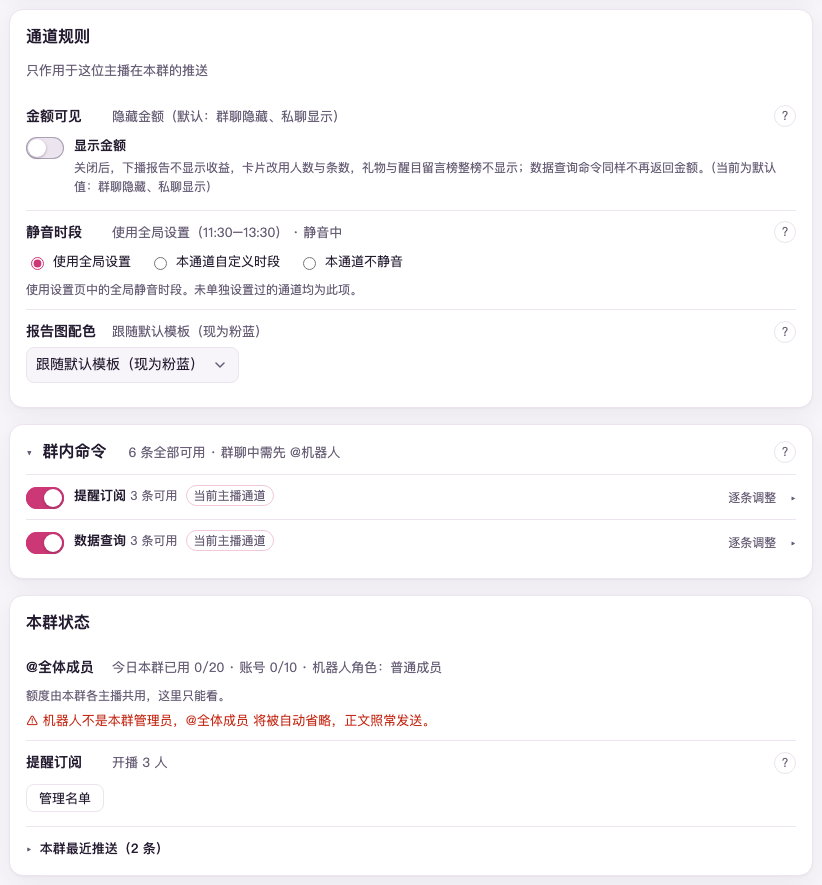
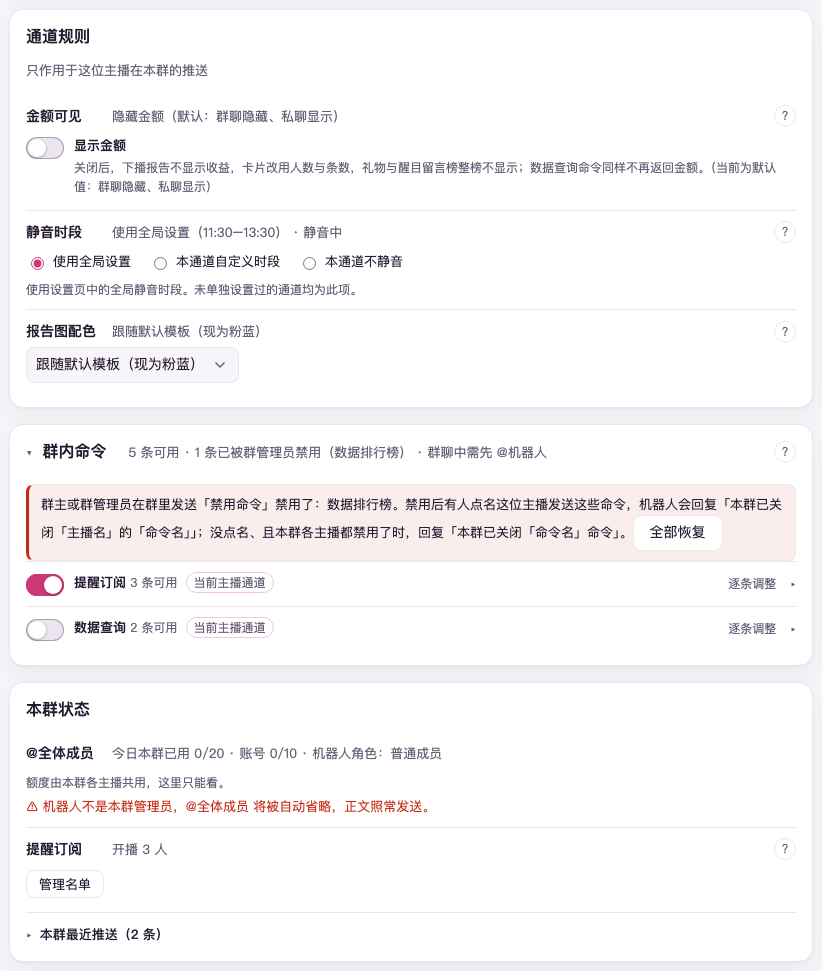
手册截图补拍，拍图脚本进仓

Changed region(s): [[0.0304, 0.4576, 0.9732, 0.9153], [0.0304, 0.0305, 0.9428, 0.4271], [0.0304, 0.9458, 0.2129, 0.9763]]

diff --git a/tools/demo-assets/console-demo/demo.js b/tools/demo-assets/console-demo/demo.js
@@ -152,6 +152,10 @@
       if (method === 'GET') {
         const userPath = path.match(/^\/config\/api\/datasource\/users\/([^/]+)\/(\d+)(\/version)?$/);
         if (userPath) {
+          // The recorded per-streamer response carries the channel settings (disabled commands, quiet hours);
+          // the list is only a navigation summary, so it is the fallback for streamers that were not recorded.
+          const recorded = responses.get(key('GET', path, url.search));
+          if (recorded) return read(recorded);
           const row = responses.get(key('GET', '/config/api/datasource/users', ''));
           const users = (await (await read(row)).json()).users || [];
           const user = users.find(one => one.platform === userPath[1] && String(one.uid) === userPath[2]);

diff --git a/manual/07-manage-groups.md b/manual/07-manage-groups.md
@@ -118,7 +118,7 @@ N 是这条通道关掉的，加上这个群关掉的第三方插件命令。
 机器人在这群里是不是管理员。不是管理员时它会写明：**@全体成员 会被自动摘掉，
 正文照发**——「配了 @全体成员 却没 @ 到人」这件事，提前在这里说清了。
 
-![通道页的「通道规则」「群内命令」「本群状态」三块（示例数据）：通道规则里是金额可见、静音时段与报告图配色；群内命令展开着，写着 6 条全部可用，下面是提醒订阅、数据查询两组开关；本群状态里是 @全体成员 与提醒订阅](images/07-group-settings.png)
+![通道页的「通道规则」「群内命令」「本群状态」三块（示例数据）：通道规则里是金额可见、静音时段与报告图配色；群内命令展开着，顶上提示群管理员禁用了一条命令，下面是提醒订阅、数据查询两组开关；本群状态里是 @全体成员 与提醒订阅](images/07-group-settings.png)
 
 ## 接下来
 
